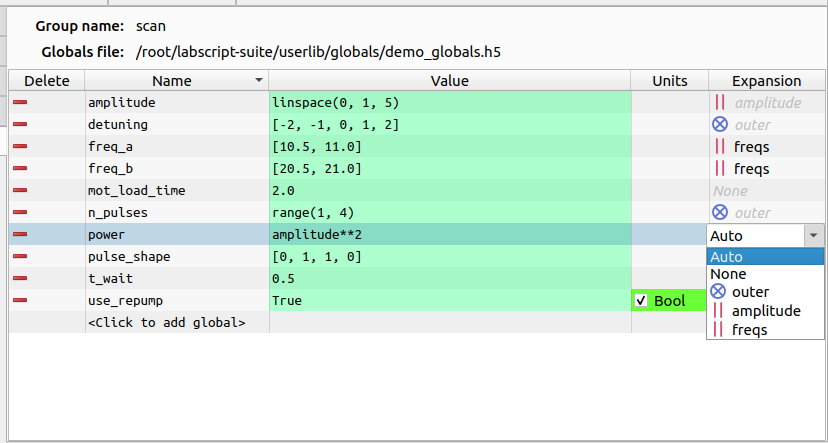
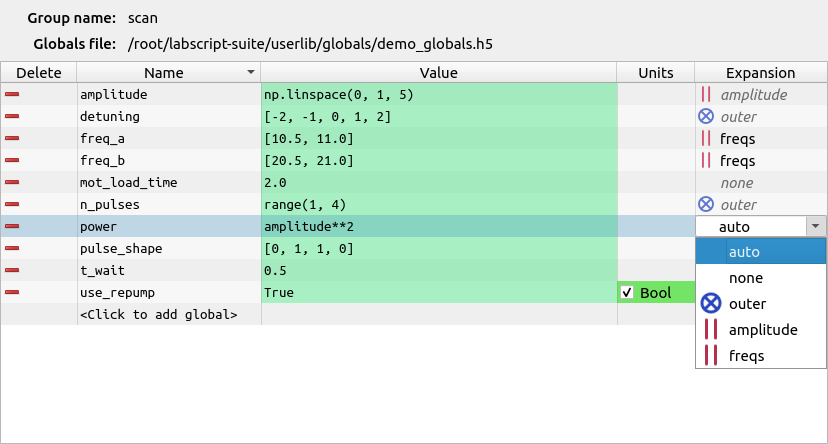
Name the expansion settings 'auto' and 'none' in lowercase
Currently, the expansion column shows 'None' for no expansion and the editor
offers 'Auto' and 'None', capitalised, next to 'outer' and the zip group
names, which are in lowercase. With this change, they are 'auto' and 'none',
also in the right-click menu, the tooltip and the docs, and the screenshots in
the docs are taken again. A typed 'auto' or 'none' is not case sensitive, so
that typing 'None' still gives no expansion rather than a zip group named
'None'. Globals files are unchanged: no expansion is stored as an empty
string.

Claude-Session: https://claude.ai/code/session_01CEhjRdMM1RDTt5z8BerHDw

Changed region(s): [[0.0, 0.0, 1.0, 1.0]]

diff --git a/runmanager/__main__.py b/runmanager/__main__.py
@@ -178,11 +178,11 @@ class DropDownButtonDelegate:
 
 class ExpansionDelegate(DropDownButtonDelegate, ItemDelegate):
     """Delegate for the expansion column of a group tab. The hovered or current cell has
-    a drop-down button. The editor is an editable combo box that offers 'Auto', 'None',
+    a drop-down button. The editor is an editable combo box that offers 'auto', 'none',
     'outer' and the zip groups in use, and takes a typed zip group name. An empty entry
-    means 'Auto'."""
+    means 'auto'. Typed entries of 'auto' and 'none' are not case sensitive."""
 
-    AUTO = 'Auto'
+    AUTO = 'auto'
 
     def __init__(self, group_tab):
         ItemDelegate.__init__(self, group_tab.ui.tableView_globals)
@@ -238,11 +238,13 @@ class ExpansionDelegate(DropDownButtonDelegate, ItemDelegate):
     def setModelData(self, combo, model, index):
         text = combo.currentText().strip()
         item = model.itemFromIndex(index)
-        if not text or text.lower() == self.AUTO.lower():
+        if not text or text.lower() == self.AUTO:
             custom = False
             text = item.text()
         else:
             custom = True
+            if text.lower() == EXPANSION_NONE_TEXT:
+                text = EXPANSION_NONE_TEXT
         # Set the setting and whether it is custom together, so that the change
         # handler sees both:
         with self.group_tab.globals_model_item_changed_disconnected:
@@ -338,7 +340,7 @@ class GroupTab:
         self.action_globals_set_selected_false = QtWidgets.QAction(
             Icon(':qtutils/fugue/ui-check-box-uncheck'), 'Set selected Booleans False',  self.ui)
         self.action_globals_reset_expansion = QtWidgets.QAction(
-            Icon(':qtutils/fugue/arrow-circle'), 'Reset expansion of selected global(s) to Auto', self.ui)
+            Icon(':qtutils/fugue/arrow-circle'), 'Reset expansion of selected global(s) to auto', self.ui)
         self.action_globals_previous_value = QtWidgets.QAction(
             Icon(':qtutils/fugue/arrow-circle-double'), 'Switch selected global(s) to previous value', self.ui)
         self.action_globals_value_history = QtWidgets.QAction(
@@ -635,7 +637,7 @@ class GroupTab:
             effect = 'This global will be interpreted as a single value and passed to compilation as-is.'
             reason = 'the value is not a list, array or range'
         if custom:
-            origin = "Chosen by you. Choose 'Auto' to let runmanager set the expansion."
+            origin = "Chosen by you. Choose 'auto' to let runmanager set the expansion."
         else:
             origin = f'Set automatically because {reason}.'
         # Don't want icon changing to recurse - which happens even if it is

diff --git a/runmanager/widgets.py b/runmanager/widgets.py
@@ -23,7 +23,7 @@ from qtutils.icons import Icon, in_mode
 from runmanager.group_manager import history_entry_expansion
 from runmanager.tokenizer import find_comments
 
-EXPANSION_NONE_TEXT = 'None'
+EXPANSION_NONE_TEXT = 'none'
 
 
 def mix_colors(color0, color1, fraction):

diff --git a/docs/source/usage.rst b/docs/source/usage.rst
@@ -318,7 +318,7 @@ has no shots.
 
 The expansion column of each global holds its expansion setting, which is one of:
 
-* None (an empty cell): the value is passed to every shot as it is, even if it is a list.
+* ‘none’: the value is passed to every shot as it is, even if it is a list.
 * ‘outer’: the global is an axis of its own, and each shot gets one element of its value.
 * The name of a zip group, after the Python function `zip`: the global varies in lockstep
   with the other globals in the zip group, which together are one axis. The globals of a
@@ -327,15 +327,15 @@ The expansion column of each global holds its expansion setting, which is one of
 
 Each setting is either automatic, which is shown in grey italics, or chosen by you, which
 is shown in the normal text colour. Editing the expansion column gives a list of the
-choices: ‘Auto’, ‘None’, ‘outer’ and the zip groups in use, and a new zip group name can
-be typed. ‘Auto’ (or an empty entry) returns the global to the automatic setting, as does
-‘Reset expansion to Auto’ in the right-click menu. A setting that you choose is recorded
-as such in the globals file and is kept until you return the global to Auto.
+choices: ‘auto’, ‘none’, ‘outer’ and the zip groups in use, and a new zip group name can
+be typed. ‘auto’ (or an empty entry) returns the global to the automatic setting, as does
+‘Reset expansion of selected global(s) to auto’ in the right-click menu. A setting that you choose is recorded
+as such in the globals file and is kept until you return the global to ‘auto’.
 
 Runmanager works out the automatic settings after every evaluation of the globals:
 
 #.  A global whose value is a list, array or range [4]_ is ‘outer’. Any other value,
-    including a tuple, gives the setting None.
+    including a tuple, gives the setting ‘none’.
 #.  A list that is derived from a global on an axis, directly or through other lists with
     automatic settings, is put on the axis of that global: in its zip group if it is in
     one, and otherwise in a zip group named after it. If the global that it is derived
@@ -344,7 +344,7 @@ Runmanager works out the automatic settings after every evaluation of the global
     globals are in zip group ``amplitude``, and in each shot ``power`` is the square of
     ``amplitude``. This is the same when you have set ``amplitude`` to ‘outer’ or put it
     in a zip group: ``power`` follows it.
-#.  A global that you have set to None is not on an axis, so rule 2 does not apply to the
+#.  A global that you have set to ‘none’ is not on an axis, so rule 2 does not apply to the
     lists that are derived from it. Such a list is ‘outer’ by rule 1, and the lists that
     are derived from it follow it by rule 2.
 
@@ -375,18 +375,18 @@ counted as scanned over. A tab with an evaluation error shows the error icon ins
     A scan group. ``amplitude`` and the ``power`` derived from it are zipped
     automatically, ``detuning`` and the range ``n_pulses`` are outer automatically,
     ``freq_a`` and ``freq_b`` are in a zip group that the user chose, the list
-    ``pulse_shape`` is passed as a single value because the user chose ‘None’, and
+    ``pulse_shape`` is passed as a single value because the user chose ‘none’, and
     the single values have no expansion automatically.
 
 .. figure:: img/runmanager_expansion_editor.png
-    :alt: The expansion column editor, a drop-down list of Auto, None, outer and the zip groups in use
+    :alt: The expansion column editor, a drop-down list of auto, none, outer and the zip groups in use
 
     Editing an expansion setting.
 
 .. figure:: img/runmanager_expansion_menu.png
     :alt: The right-click menu of the globals table with the reset action
 
-    The right-click menu returns the selected globals to Auto.
+    The right-click menu returns the selected globals to auto.
 
 Ordering and shuffling
 ~~~~~~~~~~~~~~~~~~~~~~
